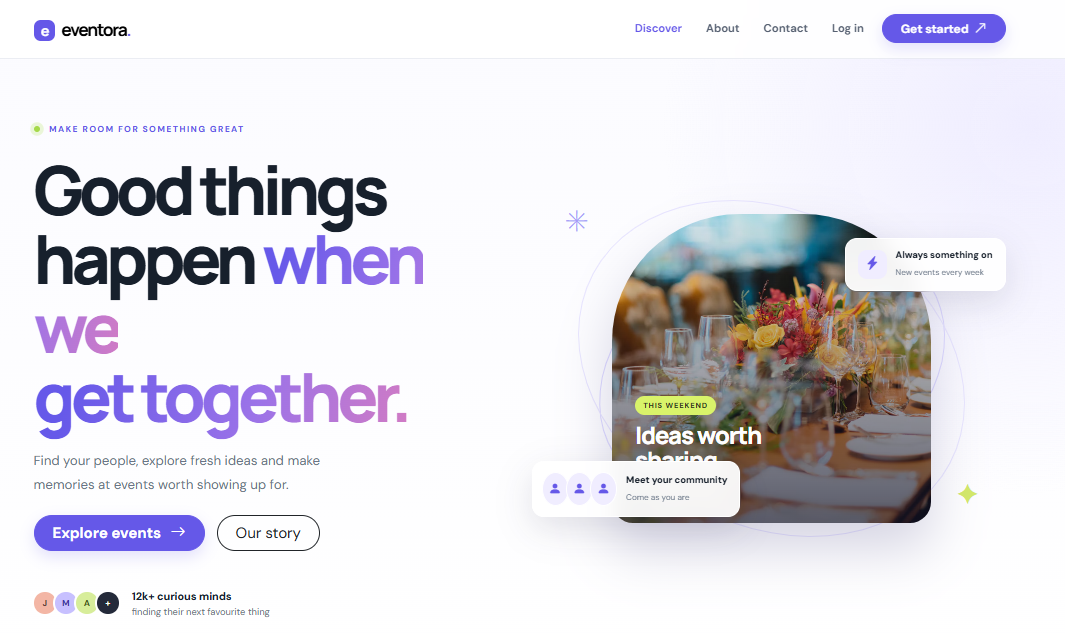
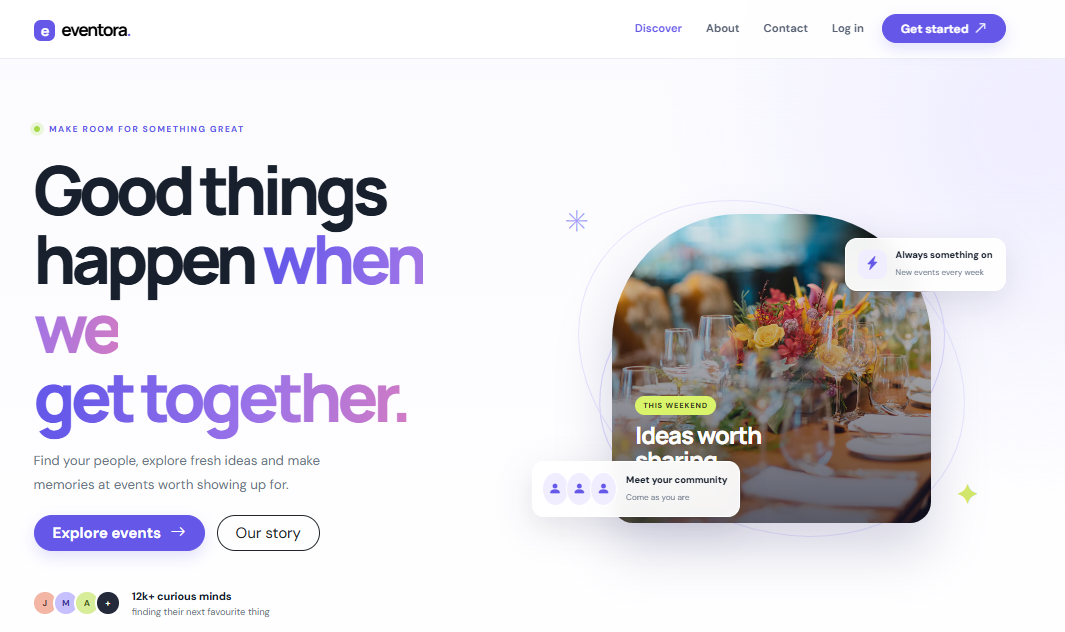
added text.html & images

diff --git a/assets/text.html b/assets/text.html
@@ -1,0 +1,14 @@
+# Description 
+<b> Lorem ipsum dolor, sit amet consectetur adipisicing elit. Nulla aliquam debitis culpa delectus? Quos voluptatibus laboriosam consequatur molestiae minima sunt sapiente, magni asperiores minus porro, deleniti facere totam quas iusto?</b>
+
+# Technology 🛠
+- **UI**: HTML, CSS, BS5
+- **DB**: MySQL, oRACLE
+
+# Screenshots 📸
+<b> Login </b>
+![login](images/login.png)
+
+<hr>
+<b> Home </b>
+![home](images/home.png)
